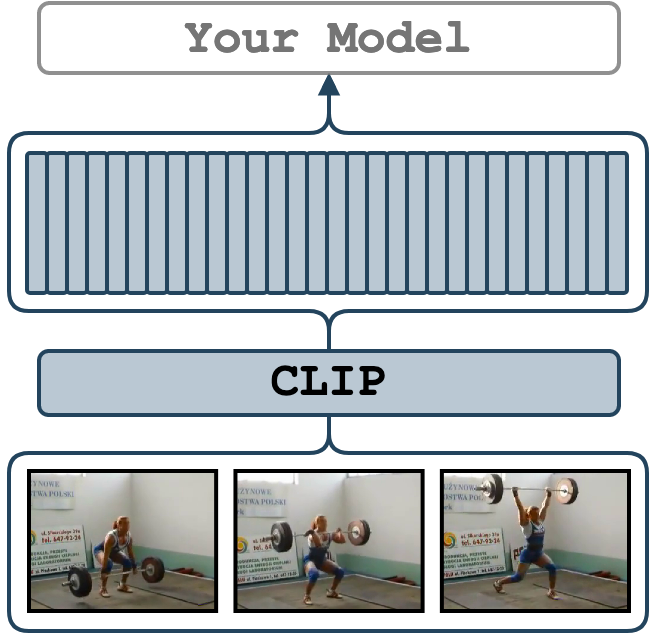
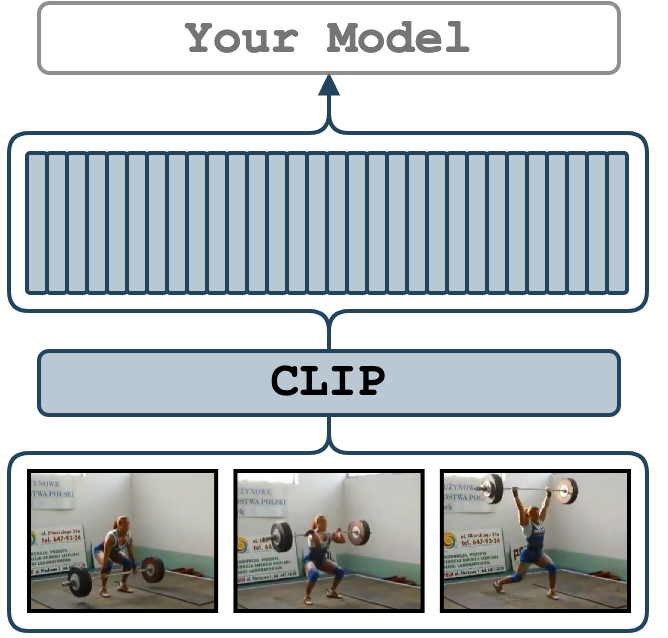
🐛 : CLIP `show_pred` from cmd raised error (#33)
* also: docs brushup + zero-shot on K400 comment

Changed region(s): [[0.0, 0.0, 0.994, 1.0]]

diff --git a/utils/utils.py b/utils/utils.py
@@ -115,9 +115,6 @@ def sanity_check(args: Union[argparse.Namespace, DictConfig]):
             args.device_ids = [args.device_ids[0]]
         if args.feature_type == 'vggish':
             print('Showing class predictions is not implemented for VGGish')
-        if args.feature_type == 'clip':
-            if args.pred_texts is None:
-                raise AssertionError(f"`pred_texts` cannot be null when `show_pred` is true for CLIP.")
     # if args.feature_type == 'r21d':
     #     message = 'torchvision.read_video only supports extraction at orig fps. Remove this argument.'
     #     assert args.extraction_fps is None, message

diff --git a/docs/models/clip.md b/docs/models/clip.md
@@ -98,8 +98,8 @@ python main.py \
     model_name="ViT-B/32" \
     device_ids="[0, 2]" \
     extraction_fps=1 \
-    pred_texts="['a dog smiles', 'a woman is lifting']" \
     show_pred="true" \
+    pred_texts="['a dog smiles', 'a woman is lifting']" \
     video_paths="[./sample/v_ZNVhz7ctTq0.mp4, ./sample/v_GGSY1Qvo990.mp4]"
 ```
 You will get the output for each frame like:
@@ -125,12 +125,15 @@ You will get the output for each frame like:
 ...
 ```
 
+You may also leave `pred_texts` unspecified or `null` (None) if you wish to apply CLIP for zero-shot prediction
+on Kinetics 400.
+
 ---
 
 ## Credits
 1. The [OpenAI CLIP implementation](https://github.com/openai/CLIP).
 2. The [CLIP paper](https://arxiv.org/abs/2103.00020)
-3. Thanks to [@ohjho](https://github.com/ohjho) who added support of this model
+3. Thanks to [@ohjho](https://github.com/ohjho) who adapted this model for `video_features`
 
 ---
 

diff --git a/docs/index.md b/docs/index.md
@@ -31,7 +31,7 @@ python main.py \
 # or add `cpu=true` to use CPU
 ```
 
-# Supported Models
+## Supported Models
 
 Action Recognition
 
@@ -55,7 +55,7 @@ Language-Image Pretraining
 
 - [CLIP](https://v-iashin.github.io/video_features/models/clip)
 
-# Acknowledgements
+## Acknowledgements
 
 - [@Kamino666](https://github.com/Kamino666): added CLIP model as well as Windows and CPU support
 - [@ohjho](https://github.com/ohjho): added support of 37-layer R(2+1)d favors.
